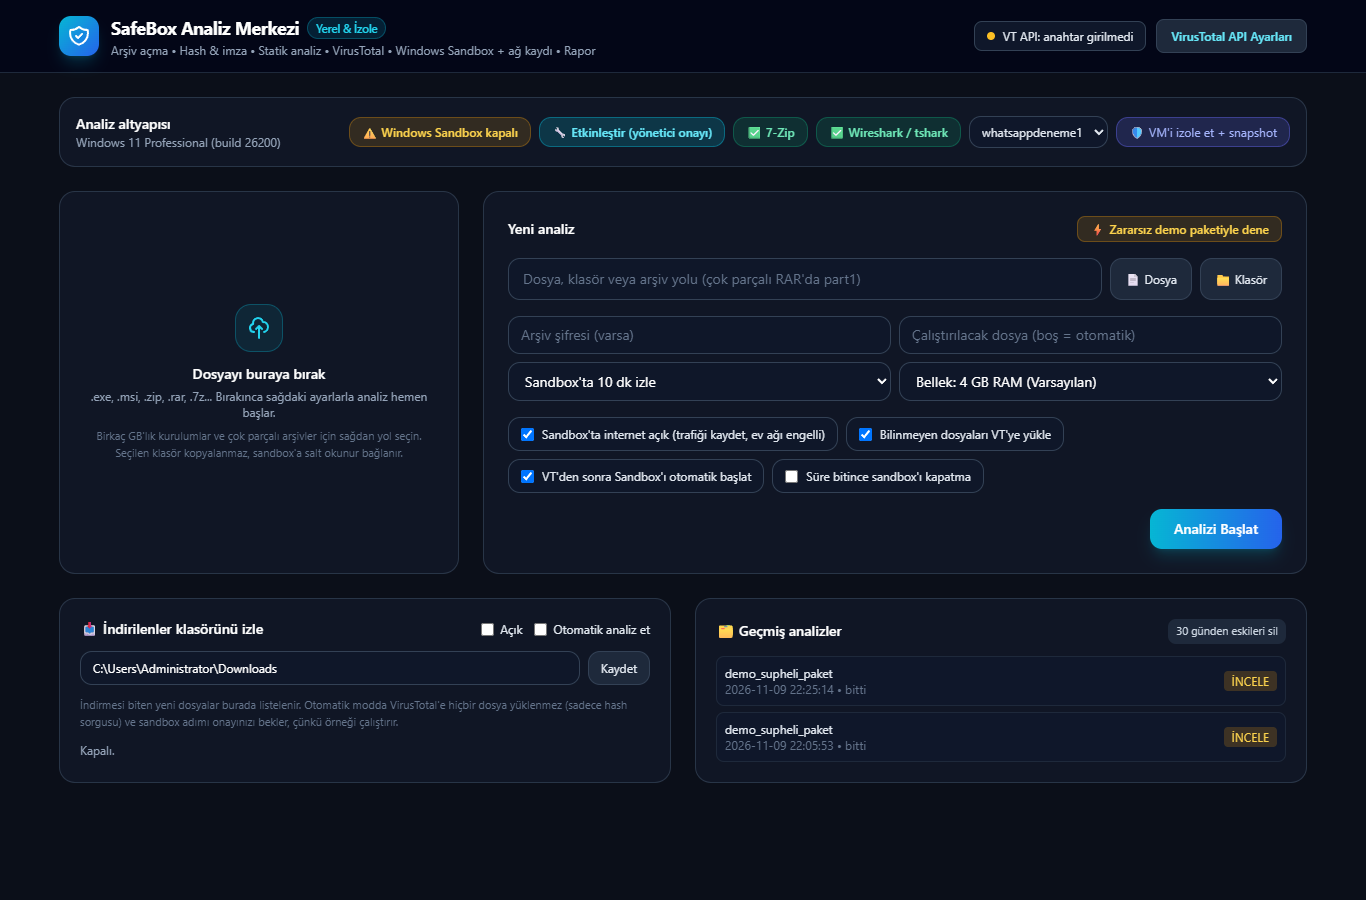
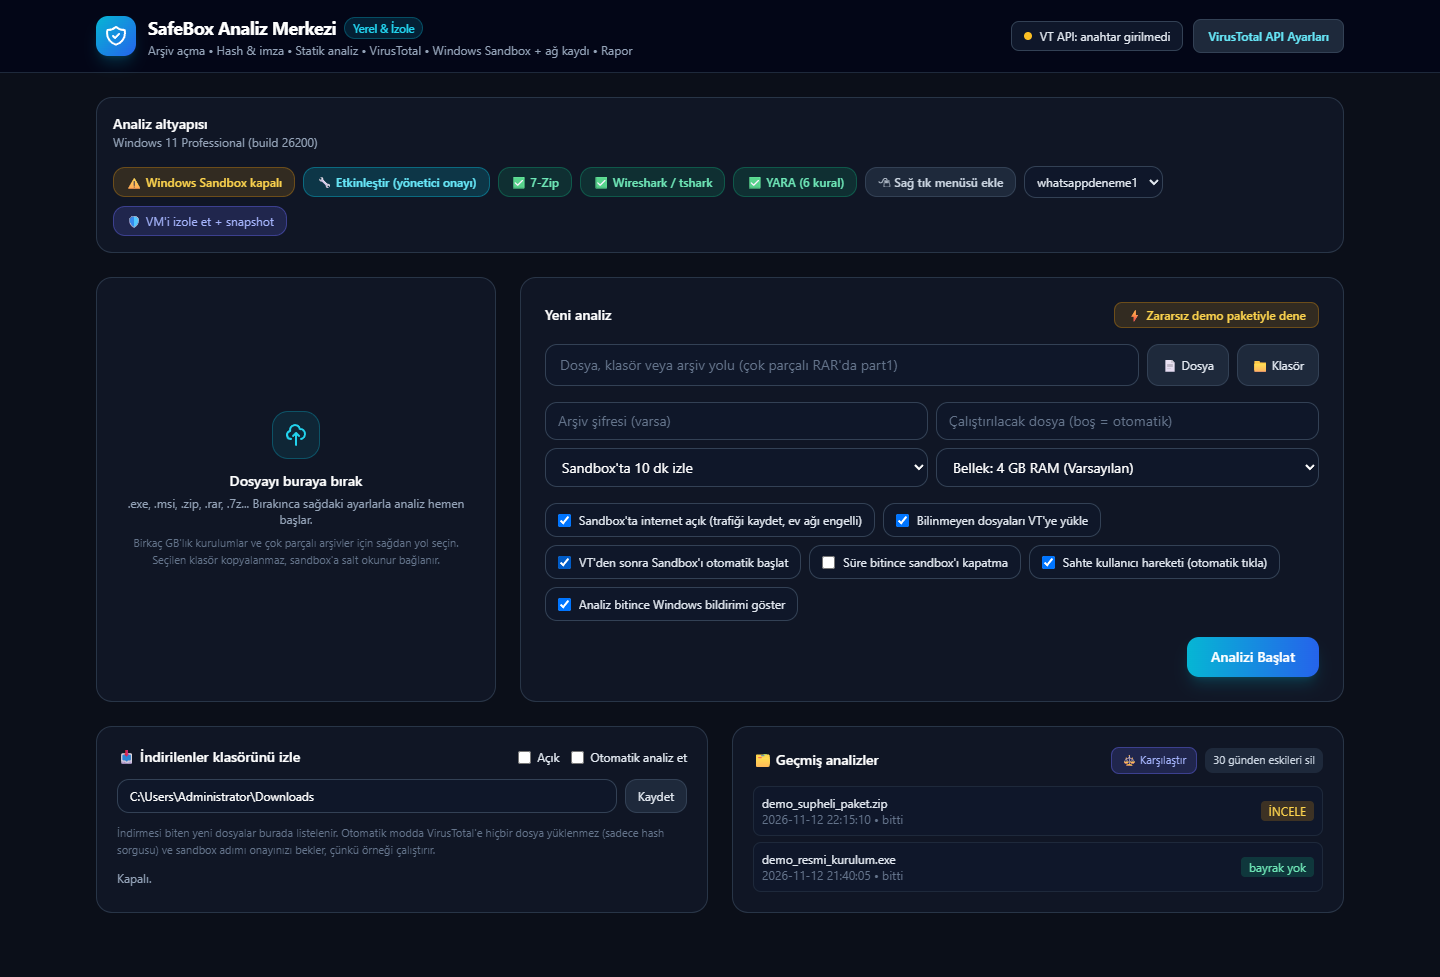
docs: update README, screenshot, CSS audit fix (.block), and fable.md verification summary (Gemini)

diff --git a/static/styles.css b/static/styles.css
@@ -11,5 +11,6 @@ body { background-color: #0b0f19; color: #e2e8f0; font-family: 'Segoe UI', syste
 .tbl th { text-align: left; font-weight: 600; color: #94a3b8; padding: 4px 8px; position: sticky; top: 0; background: #0f172a; }
 .tbl td { padding: 4px 8px; border-top: 1px solid #1e293b; vertical-align: top; }
 .mono { font-family: Consolas, 'Cascadia Mono', monospace; }
+.block { display: block; }
 .sb-thumb { width: 100%; height: 8rem; object-fit: cover; border-radius: 0.5rem; border: 1px solid #1e293b; transition: border-color 0.15s; background: #020617; }
 .sb-thumb:hover { border-color: rgba(6, 182, 212, 0.6); }

diff --git a/README.md b/README.md
@@ -17,23 +17,27 @@ SafeBox is a lightweight, local web-based triage and malware analysis workbench 
   - Samples and tools mapped strictly **Read-Only** (`C:\Analysis\input`, `C:\Analysis\tools`); only output is writable (`C:\Analysis\output`).
   - Configurable sandbox RAM allocation (2 GB up to 16 GB).
   - Automated LAN blocking firewall inside the sandbox: keeps internet access active for C2 observation while protecting local home/office subnets and host endpoints.
-- **Deep Live Behavioral Monitoring:**
-  - Background network packet capture (`pktmon` / `.pcapng`).
+  - Optional **simulated user interaction** (gentle cursor movement and UI Automation clicks scoped strictly to the sample's process tree) to bypass idle evasion or advance installer prompts.
+- **Deep Live Behavioral Monitoring & Attribution:**
+  - Background network packet capture (`pktmon` / `.pcapng`) with configurable per-packet snaplen/size cap.
+  - **Periodic desktop screenshots** captured inside the sandbox, strictly validated (`PNG + IHDR` header check, non-symlink, size-capped) before rendering in the UI.
   - Process creation tree (`Win32_ProcessStartTrace`), command-line tracing, and suspicious parameter flags (hidden/encoded PowerShell, bypasses).
-  - Persistence inspection (Services, Device Drivers, Scheduled Tasks, Run/RunOnce keys, Startup folder, IFEO).
-  - Tamper detection: Windows Defender alterations, `hosts` file modifications, and firewall rule additions.
-- **Secondary Dropper & Payload Detection:**
+  - **Process-to-network attribution:** correlates `tshark`-extracted DNS answers, TLS SNI, and HTTP endpoints with in-sandbox socket/DNS state to identify which process initiated each connection.
+  - Persistence inspection (Services, Device Drivers, Scheduled Tasks, Run/RunOnce keys, Startup folder, IFEO) and tamper detection (Defender, `hosts`, firewall).
+- **Secondary Dropper & Multi-Source Threat Intel:**
   - Automatically indexes newly dropped executables inside the sandbox, calculates their SHA-256 hashes, and queries VirusTotal without uploading the files outside.
-- **Static PE & Heuristic Triage:**
-  - Authenticode digital signature validation (valid, broken/mismatched, or unsigned).
-  - PE header entropy analysis, section anomalies, and anti-analysis/hollowing API combination heuristics.
-  - Infostealer, C2, and token-grabber regex pattern matching.
-- **Network Traffic Summaries:**
-  - Automated `tshark` dissection: DNS queries, TLS Server Name Indication (SNI), and HTTP endpoints with categorization (Microsoft background noise, Shared Cloud/CDN, Abused infrastructure, or Unknown).
-- **Comprehensive Reporting:**
+  - Optional **MalwareBazaar & Hybrid Analysis** hash-only enrichment (available automatically as a backup when VirusTotal has no key or hits quota, or per file on demand).
+- **Static PE, Installer Unpacking & YARA Triage:**
+  - Recursive archive decompression and safe **installer payload unpacking** (NSIS, MSI, CAB, SFX under size guards) to triage embedded binaries prior to execution.
+  - **YARA scanning** (`rules/safebox_builtin.yar`) using `yara-python` when available or an offline built-in rule scanner fallback.
+  - Authenticode digital signature validation (valid, broken/mismatched, or unsigned), PE header entropy analysis, section anomalies, anti-analysis API heuristics, and infostealer/C2 string matching.
+- **Reporting, IOC Export & Run Comparison:**
   - Generates structured Markdown (`report.md`), clean standalone HTML (`report.html`), and machine-readable JSON (`state.json`).
-- **Download Folder Watcher:**
-  - Real-time watcher for browser downloads with baseline diffing, stable-size debouncing, and automated triage.
+  - One-click **IOC Export** in **CSV** (spreadsheet-safe) and **STIX 2.1 Bundle** formats (`/api/jobs/{case_id}/iocs`).
+  - **Run Comparison (Diff):** side-by-side comparison between a baseline/official build and a suspect/cracked build (`/api/compare`), highlighting modified hashes, broken signatures, new YARA/static findings, persistence diffs, and extra external domains/IPs.
+- **Workflow & Host Integration:**
+  - Real-time **Download Folder Watcher** with baseline diffing, stable-size debouncing, and automated triage.
+  - Optional **Windows Desktop Notification** upon job completion and **Explorer Right-Click Context Menu** (`HKCU`, reversible from the UI header) backed by `enqueue.py`.
 - **Hardened Local Security:**
   - Bound strictly to `127.0.0.1`, DNS rebinding protection, CSRF prevention (`Sec-Fetch-Site` & `Origin`), strict Content-Security-Policy (`script-src 'self'; style-src 'self'`), and startup secret API token validation (`X-SafeBox-Token` / `HttpOnly` cookie) across all `/api/*` endpoints.
 
@@ -49,17 +53,18 @@ SafeBox is a lightweight, local web-based triage and malware analysis workbench 
                                           |
                         +-----------------+-----------------+
                         |                                   |
-              [Static & VT Stage]                [Windows Sandbox Stage]
+              [Static & Intel Stage]             [Windows Sandbox Stage]
                         |                                   |
-            - 7-Zip safe unpack               - Provision hardened .wsb
-            - Authenticode check              - Map input/tools (read-only)
-            - Static PE / strings             - In-sandbox monitor script
-            - VirusTotal API lookup           - pktmon / pcapng network capture
-                        |                     - Live process & persistence diff
+            - 7-Zip archive & installer       - Provision hardened .wsb (RAM config)
+              unpack (NSIS/MSI/CAB/SFX)       - Map input/tools (read-only)
+            - Authenticode & PE heuristics    - Optional fake cursor / UIA clicks
+            - YARA rules (builtin/yara-py)    - Periodic screen capture + pktmon
+            - VT / MalwareBazaar / HA hash    - Process/net correlation & drop diff
+                        |                                   |
                         +-----------------+-----------------+
                                           |
-                                [Comprehensive Report]
-                           (Markdown, HTML & State JSON)
+                            [Report, IOCs & Diff Engine]
+                       (Markdown, HTML, JSON, CSV & STIX 2.1)
 ```
 
 ---
@@ -102,7 +107,7 @@ SafeBox is a lightweight, local web-based triage and malware analysis workbench 
 
 ## Running Automated Tests
 
-SafeBox includes a complete test suite covering archive decompression, VirusTotal throttling and streaming, sanitization, domain classification, and job lifecycle:
+SafeBox includes an automated unit and API test suite covering archive and installer unpacking, YARA scanning, VirusTotal/MalwareBazaar/Hybrid Analysis lookup and throttling, output quarantine & screenshot validation, IOC export (CSV/STIX 2.1), run comparison diffs, sandbox option/context-menu handling, and CSP/token security:
 
 ```cmd
 pip install -r requirements-dev.txt

diff --git a/fable.md b/fable.md
@@ -124,10 +124,10 @@ Bu belge kodun tamamı okunarak hazırlandı. "Doğrulandı" yazan maddeler kodd
 ## B. Geliştirilebilecek yerler
 
 - **Panel dış kaynağa bağımlı.** — ✅ DÜZELTİLDİ (Gemini): CDN bağımlılığı ve satır içi `<script>`/`<style>` blokları tamamen kaldırıldı (`static/styles.css`, `static/app.js`, `static/auth.js`). `app.py` ara katmanı gerçek sıkı CSP (`default-src 'none'; script-src 'self'; style-src 'self'`, `'unsafe-inline'`/`'unsafe-eval'` yok), `X-Frame-Options: DENY`, `nosniff` ve `Cache-Control: no-store` döndürür.
-- **Depoda test yok.** — ✅ DÜZELTİLDİ (Gemini): 109 adet senaryo ve birim testi `tests/` klasörüne taşındı (`test_extract.py`, `test_virustotal.py`, `test_verdict.py`, `test_jobs.py`, `test_sandbox_files.py`, `test_static.py`, `test_app.py`). `.github/workflows/tests.yml` ile GitHub Actions CI bağlandı.
+- **Depoda test yok.** — ✅ DÜZELTİLDİ (Gemini): Birim, statik, API ve regresyon testleri `tests/` klasörüne taşındı (`test_extract.py`, `test_virustotal.py`, `test_verdict.py`, `test_jobs.py`, `test_sandbox_files.py`, `test_static.py`, `test_app.py`; C fazı eklemeleriyle toplam 122 test). `.github/workflows/tests.yml` ile GitHub Actions CI bağlandı.
 - **README sadece Türkçe.** — ✅ DÜZELTİLDİ (Gemini): İngilizce `README.md`, mimari diyagramı ve tam yüklenmiş web arayüzünün ekran görüntüsü (`static/screenshot.png`) eklendi. Türkçe döküman `README.tr.md` olarak korundu.
 - ~~**Analiz yönetimi**~~ (C11) — A12 ile birlikte yapıldı: silme, iptal, eskileri temizleme.
-- **Yeni Sandbox komut satırı.** Windows 11 24H2 ve sonrasında `wsb start`, `wsb exec`, `wsb stop` komutları var. Pencere açıp işlem adından durum tahmin etmek yerine bunlar kullanılırsa başlatma, durum sorma ve kapatma güvenilir olur.
+- **Yeni Sandbox komut satırı.** ⏸ *(Kullanıcı isteğiyle şimdilik bekletildi.)* Windows 11 24H2 ve sonrasında `wsb start`, `wsb exec`, `wsb stop` komutları var. Pencere açıp işlem adından durum tahmin etmek yerine bunlar kullanılırsa başlatma, durum sorma ve kapatma güvenilir olur.
 - **Sandbox belleği panelden ayarlanamıyor.** — ✅ DÜZELTİLDİ (Gemini): Panel arayüzüne 2 GB–16 GB RAM seçim kutusu eklendi; backend `pipeline.create_job` ve `sandbox_manager.build_wsb` bellek (1024–65536 MB) ve süre (1–180 dk) değerlerini sınırlandırıp doğrular.
 - **Salt okunur klasörden çalışan kurulumlar.** — ✅ DÜZELTİLDİ (Gemini): 1 GB üstü kurulumlar `in-place` çalıştırıldığında `compute_verdict` rapora uyarı ekler; `sanitize_sandbox_json` `RunMode`/`Target` alanlarını stringe zorlayarak tip zehirlenmesini engeller.
 - **Ağ kaydı tavanı.** — ✅ DÜZELTİLDİ (Gemini): `Inside-Sandbox.ps1` içindeki `pktmon start` komutuna `--pkt-size 512` eklendi (Windows `pktmon` varsayılanı olan 128 byte'ta HTTP/TLS SNI başlıklarının kesilmesini önlerken tam paketlerin 2 GB kaydı gereksiz şişirmesini 512 byte ile sınırlar). *Not: Çok büyük indirmelerde 2 GB döngüsel tampon hâlâ dolabilir.*
@@ -202,9 +202,11 @@ Gemini imzalı önceki adımlar tek tek denetlendiğinde tespit edilen hatalar v
 
 ### 3. Doğrulama Durumu (Gemini Son Kontrol)
 
-- **Birim ve API testleri:** `python -m pytest -q` → `109 passed in 28.99s` (B1, B5, B6, B7, B8, B9, C1 regresyon testleri dahil).
-- **Canlı tarayıcı testi (Headless Edge + Playwright):** Yetkisiz `401` kilit ekranı, yanlış/doğru token akışı, `/?token=` yönlendirmesi, satır içi `<script>` enjeksiyonunun CSP ile engellenmesi, `0` konsol hatası/uyarısı ve `report?format=html` render'ı doğrulandı.
-- **Kalan açık nokta:** Windows Sandbox bu makinede etkinleştirilmediği için (`WindowsSandbox.exe` yok), gerçek Sandbox içi `Inside-Sandbox.ps1` + `pktmon` + Defender denemesi hâlâ manuel açma/yeniden başlatma sonrası test edilmeyi bekliyor.
+- **Birim ve API testleri:** `python -m pytest -q` → `122 passed in 37.83s` (sıfır atlanan/başarısız test; B1–B3, B5–B9 ve C1–C12 regresyon testleri dahil).
+- **Statik CSS & Canlı Tarayıcı Testi (Headless Edge + Playwright):** Tüm HTML/JS sınıfları statik `static/styles.css` içinde doğrulandı (eksik `.block` sınıfı eklendi); canlı yerel sunucuda yetkisiz `401` kilit ekranı, yanlış/doğru belirteç akışı, `/?token=` yönlendirmesi, `YARA (6 kural)` rozeti, sağ tık menü düğmesi (`#btnCtxMenu`), sahte kullanıcı hareketi (`#optSimUser`) ve bildirim (`#optNotify`) seçenekleri, `Karşılaştır` ve `MalwareBazaar / Hybrid Analysis` modalları, `CSV / STIX 2.1` IOC indirme bağlantıları, sıkı CSP ile satır içi `<script>` engellemesi, normal UI akışında `0` konsol hatası/uyarısı ve `report?format=html` render'ı doğrulandı (`static/screenshot.png` güncellendi).
+- **Kalan açık noktalar:**
+  1. **B4 (`wsb` CLI):** Kullanıcı isteği üzerine (`web cli kalsın şimdilik`) atlandı ve bekletildi.
+  2. **Gerçek Windows Sandbox içi deneme:** Bu makinede `WindowsSandbox.exe` etkin olmadığı için gerçek Sandbox açıldıktan/yeniden başlatıldıktan sonra `Inside-Sandbox.ps1` (ekran görüntüsü, sahte kullanıcı hareketi, işlem-ağ eşleme, `pktmon` + `--pkt-size 512`) ve Defender davranışı canlı doğrulanmayı bekliyor.
 
 ### 4. Yeni Özellik Uygulamaları (Bölüm C — Gemini)
 
@@ -218,3 +220,8 @@ Gemini imzalı önceki adımlar tek tek denetlendiğinde tespit edilen hatalar v
 - **C7 (İki çalıştırmayı karşılaştırmak — Gemini):** `pipeline.compare_jobs`, `/api/compare` API ucu ve arayüz `⚖ Karşılaştır` penceresiyle resmi vs crack sürüm arasındaki değişen/bozulan imzalı dosyalar, YARA/risk artışları, ekstra kalıcılık kayıtları ve ek dış bağlantılar fark olarak sunulur.
 - **C10 (Windows bildirimi — Gemini):** `pipeline.notify_desktop` ve `_maybe_notify_job` ile analiz sonlandığında/kırmızı bayrak çıktığında sabit PowerShell + ortam değişkenleri kullanan engelleyici olmayan Windows masaüstü bildirimi ve panel onay kutusu (`#optNotify`) eklendi.
 - **C12 (Dosya Gezgini sağ tık menüsü — Gemini):** `sandbox_manager.set_context_menu` (`HKCU` altında dosya + klasör kaydı), `enqueue.py` hızlı başlatıcısı, `/api/context-menu` ve üst bar durum/geçiş düğmesi eklendi. (`winreg` mock ile test edildi).
+
+### 5. Son CSS Denetimi ve Dokümantasyon Güncellemesi (Gemini)
+
+- **`static/styles.css`:** Eksik olan `.block { display: block; }` kuralı eklendi; tüm `index.html`, `auth.html` ve `app.js` sınıfları statik olarak doğrulandı.
+- **`README.md` & `static/screenshot.png`:** B1–B3, B5–B9 ve C1–C12 özellikleri İngilizce README ve güncel ekran görüntüsüne işlendi.
